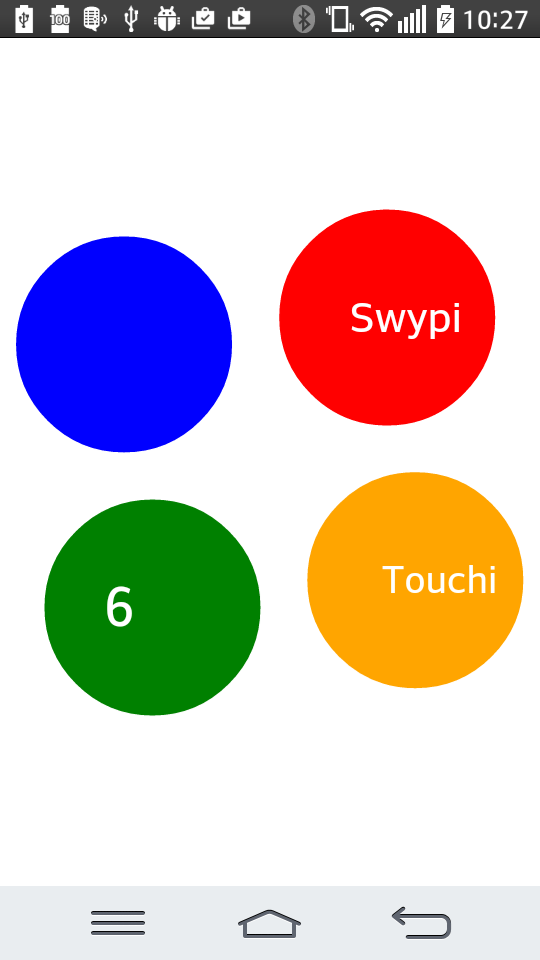
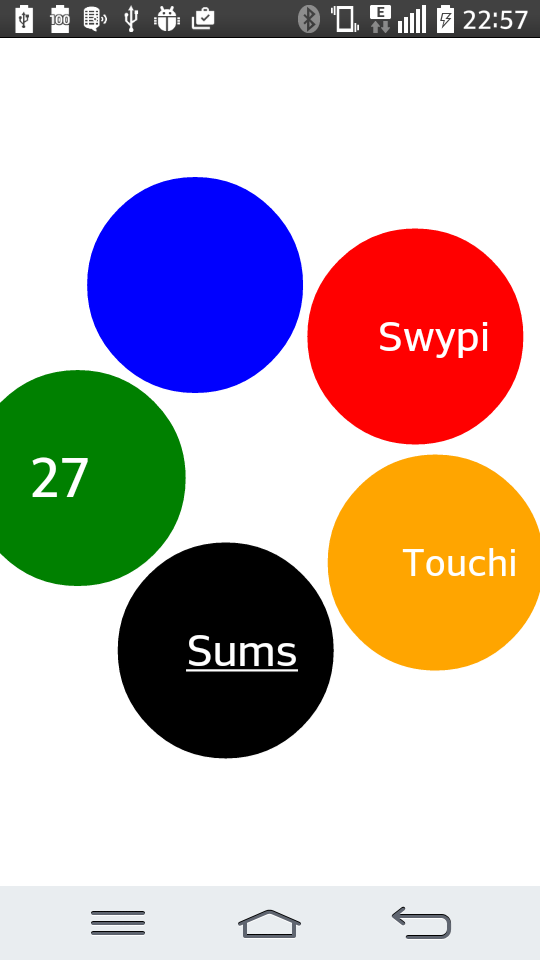
Sums finish and over

diff --git a/www/js/gameCController.js b/www/js/gameCController.js
@@ -232,7 +232,7 @@ com_geekAndPoke_Ngm1.gameAController = (function() {
 
         height = $(window).height();
         width = $(window).width();
-        radius = Math.min(width, height) / 10;
+        radius = Math.min(width, height) / 5;
 
 
         svg = d3.select("#field").append("svg")
